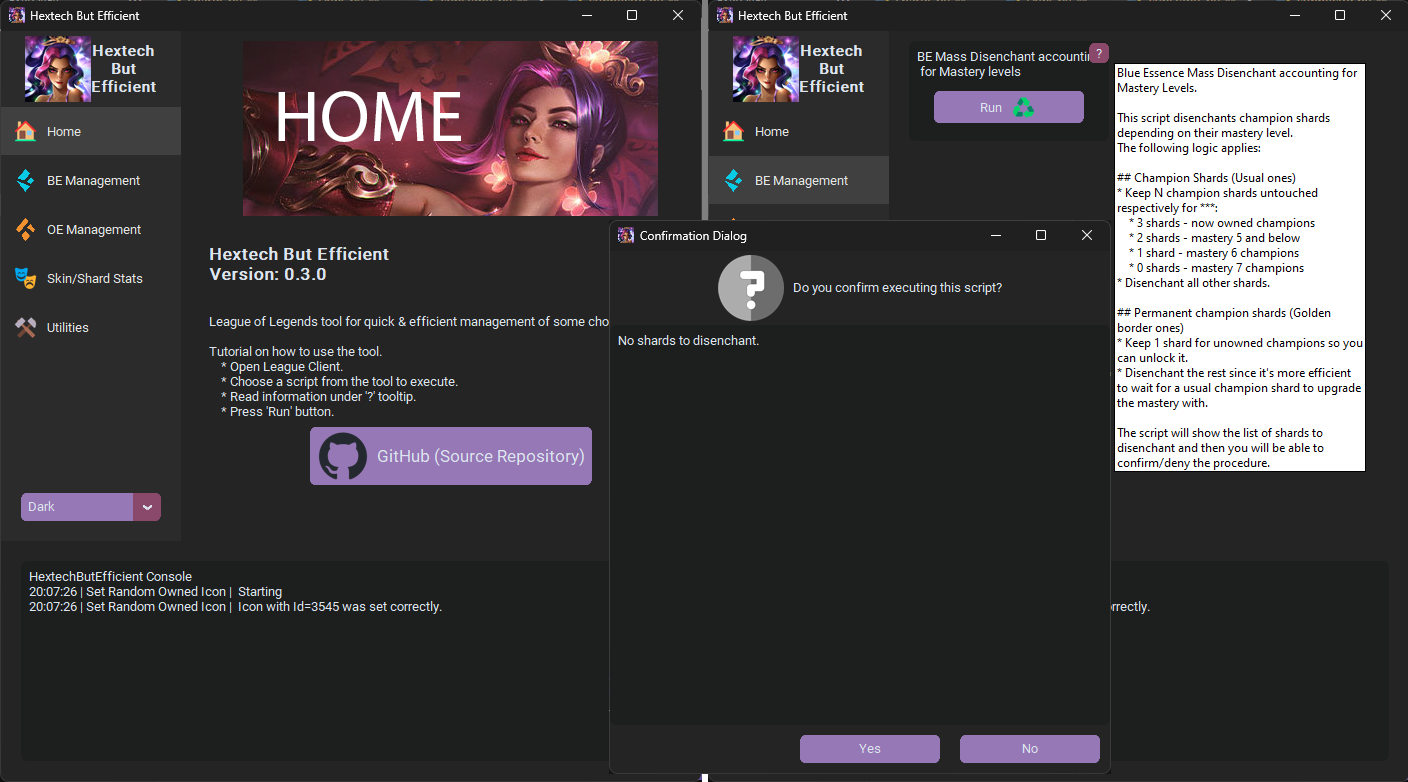
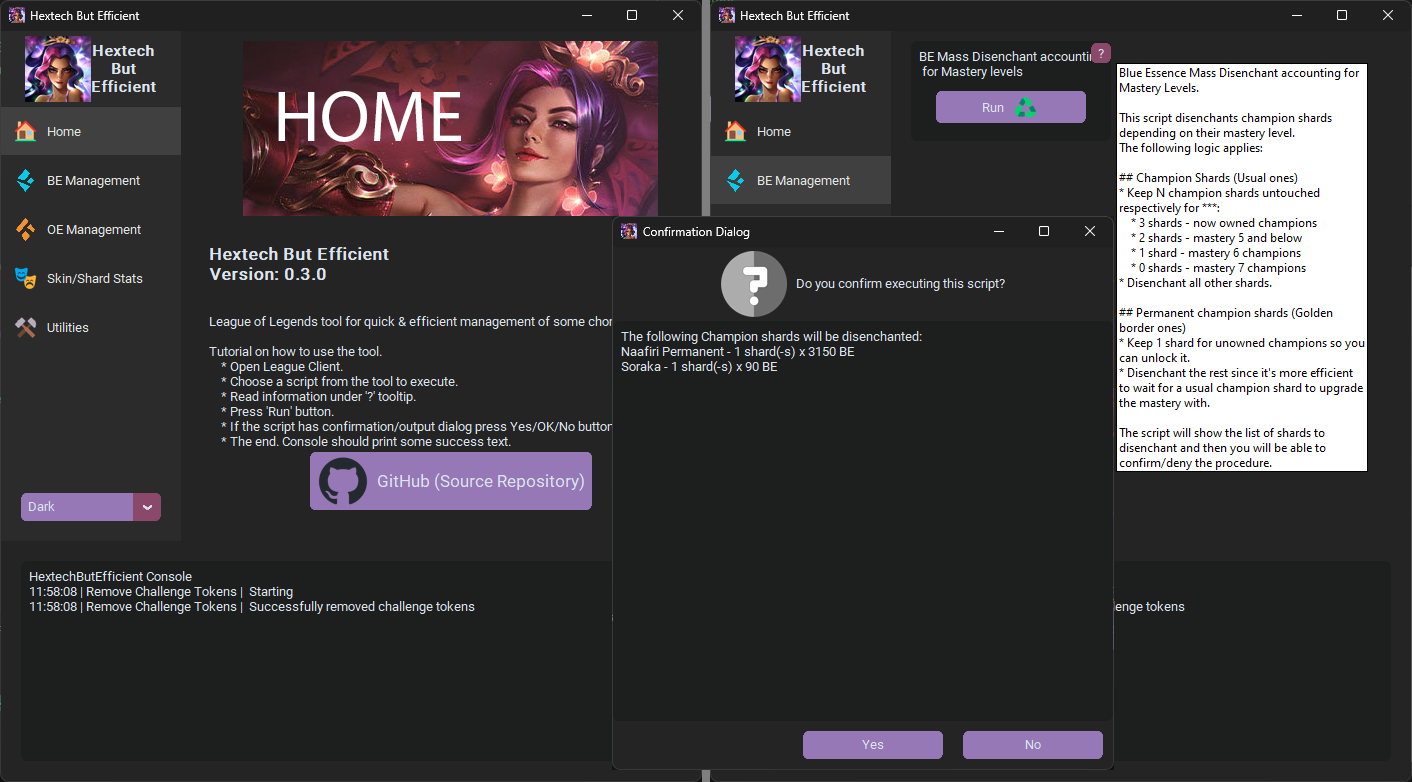
💙Fix BE display values

diff --git a/scripts/be_management/be_mass_disenchant.py b/scripts/be_management/be_mass_disenchant.py
@@ -1,11 +1,3 @@
-"""
-# Mass-Disenchant Champion Shards accounting for Mastery levels.
-
-- [X] keep 3/2/1/0 champion shards depending on their mastery - 
-respectively to not_owned/5_and_below/6/7 level.
-- [ ] Disenchant permanent shards for owned champions.
-"""
-
 from __future__ import annotations
 
 from typing import Mapping, NamedTuple
@@ -14,9 +6,11 @@ from common import AluConnector
 
 
 class ShardToDisenchant(NamedTuple):
-    name: str
+    loot_name: str
     type: str
     count: int
+    display_name: str
+    disenchant_value: int
 
 
 class BEMassDisenchant(AluConnector):
@@ -53,9 +47,10 @@ class BEMassDisenchant(AluConnector):
         # Loot
         r_loot = await self.get("/lol-loot/v1/player-loot")
 
-        # gather statistics about the shards to disenchant
+        # Gather statistics about the shards to disenchant
         shards_to_confirm: list[ShardToDisenchant] = []
         for item in await r_loot.json():
+            extra_display_text = ""
             match item["type"]:
                 case "CHAMPION_RENTAL":  # normal "partial" champion shard
                     if item["itemStatus"] == "OWNED":
@@ -67,6 +62,7 @@ class BEMassDisenchant(AluConnector):
                         # not owned champ -> 3 shards to save
                         shards_to_save = 3
                 case "CHAMPION":  # permanent champion shard
+                    extra_display_text = " Permanent"
                     shards_to_save = int(item["itemStatus"] != "OWNED")  # don't own -> need to save one shard.
                 case _:
                     continue
@@ -76,18 +72,32 @@ class BEMassDisenchant(AluConnector):
             if shards_to_disenchant:
                 shards_to_confirm.append(
                     ShardToDisenchant(
-                        name=item["lootName"],
+                        loot_name=item["lootName"],
                         type=item["type"],
                         count=shards_to_disenchant,
+                        display_name=item["itemDesc"] + extra_display_text,
+                        disenchant_value=item["disenchantValue"],
                     )
                 )
 
         # Confirm
-        text = "".join([f"{shard.name} - {shard.type}: {shard.count} shards" for shard in shards_to_confirm])
+        text = "\n".join(
+            [
+                f"{shard.display_name} - {shard.count} shard(-s) x {shard.disenchant_value} BE"
+                for shard in shards_to_confirm
+            ]
+        )
+        total_be = sum(shard.disenchant_value * shard.count for shard in shards_to_confirm)
         if not text:
             text = "No shards to disenchant."
         else:
-            text = "The following Champion shards will be disenchanted:\n" + text
+            text = (
+                "The following Champion shards will be disenchanted:\n"
+                f"{text}\n"
+                "---\n"
+                f"Total Amount of Blue Essence to gain: {total_be}"
+            )
+
         self.confirm(text)
 
         # We can finally disenchant
@@ -95,9 +105,9 @@ class BEMassDisenchant(AluConnector):
         for shard in shards_to_confirm:
             r = await self.post(
                 f"/lol-loot/v1/recipes/{shard.type}_disenchant/craft?repeat={shard.count}",
-                data=[shard.name],
+                data=[shard.loot_name],
             )
-            if r.status == 201:
+            if r.status == 200:
                 total_shards_disenchanted += shard.count
 
         return f"Disenchanted {total_shards_disenchanted} shards"
@@ -105,3 +115,47 @@ class BEMassDisenchant(AluConnector):
 
 if __name__ == "__main__":
     BEMassDisenchant().start()
+
+
+""" 
+A scheme of item in 
+"for item in await r_loot.json():"
+
+Just so I don't need to do extra print(item) when I want to change something.
+{
+    "asset": "",
+    "count": 1,
+    "disenchantLootName": "CURRENCY_champion",
+    "disenchantRecipeName": "CHAMPION_RENTAL_disenchant",
+    "disenchantValue": 960,
+    "displayCategories": "CHAMPION",
+    "expiryTime": -1,
+    "isNew": False,
+    "isRental": True,
+    "itemDesc": "Kayle",  # /* cspell: disable-line */
+    "itemStatus": "OWNED",
+    "localizedDescription": "",
+    "localizedName": "",
+    "localizedRecipeSubtitle": "",
+    "localizedRecipeTitle": "",
+    "lootId": "CHAMPION_RENTAL_10",
+    "lootName": "CHAMPION_RENTAL_10",
+    "parentItemStatus": "NONE",
+    "parentStoreItemId": -1,
+    "rarity": "DEFAULT",
+    "redeemableStatus": "ALREADY_OWNED",
+    "refId": "",
+    "rentalGames": 0,
+    "rentalSeconds": 604800,
+    "shadowPath": "",
+    "splashPath": "/lol-game-data/assets/v1/champion-splashes/10/10000.jpg",
+    "storeItemId": 10,
+    "tags": "",
+    "tilePath": "/lol-game-data/assets/v1/champion-tiles/10/10000.jpg",
+    "type": "CHAMPION_RENTAL",
+    "upgradeEssenceName": "CURRENCY_champion",
+    "upgradeEssenceValue": 2880,
+    "upgradeLootName": "CHAMPION_10",
+    "value": 4800,
+}
+"""
